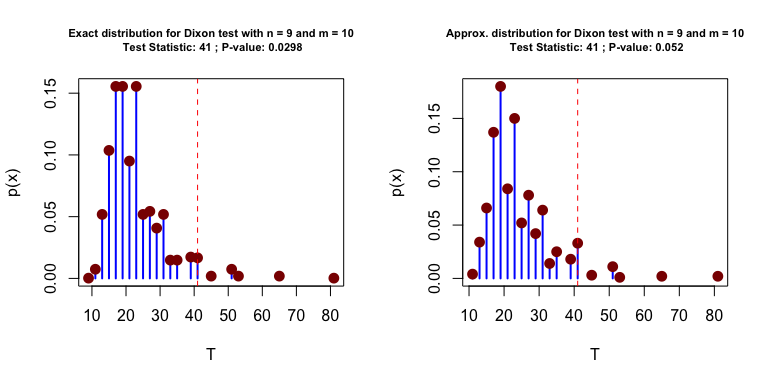
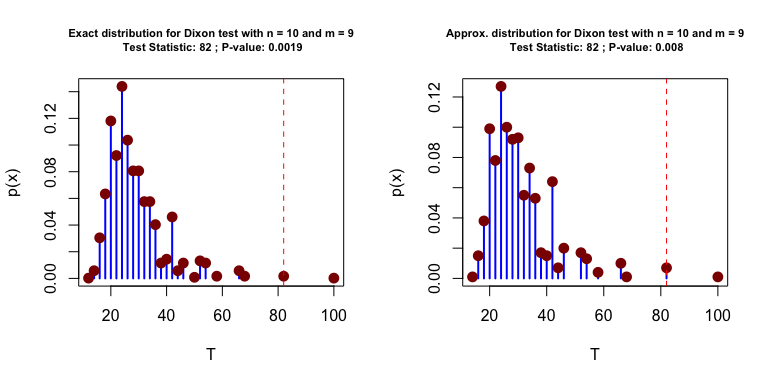
Update READEME

diff --git a/README.md b/README.md
@@ -8,7 +8,7 @@ Active](http://www.repostatus.org/badges/latest/active.svg)](http://www.repostat
 version](https://img.shields.io/badge/R%3E%3D-3.4.0-6666ff.svg)](https://cran.r-project.org/)
 [![CRAN](http://www.r-pkg.org/badges/version/TwoCircles)](https://cran.r-project.org/package=TwoCircles)
 [![packageversion](https://img.shields.io/badge/Package%20version-0.1.0-orange.svg?style=flat-square)](commits/develop)
-[![Last-changedate](https://img.shields.io/badge/last%20change-2020--06--13-yellowgreen.svg)](/commits/master)
+[![Last-changedate](https://img.shields.io/badge/last%20change-2020--10--05-yellowgreen.svg)](/commits/master)
 
 # `TwoCircles` Overview
 
@@ -30,26 +30,26 @@ Schmidt-Koenig (1958).
 data(pigeons)
 
 # Dixon test (exact pvalue)
-circular_test(pigeons$experimental, pigeons$control)
+circular_test(pigeons$control, pigeons$experimental)
 #> 
 #>       Dixon Two Sample Test
 #> 
-#> Data:  pigeons$experimental and pigeons$control
-#> Test Statistic: 41
-#> Exact P-value: 0.02982
+#> Data:  pigeons$control and pigeons$experimental
+#> Test Statistic: 82
+#> Exact P-value: 0.00185
 #> Bracketing Points and Pair of Signif. Levels:
-#> c1 = 35 (p1 = 0.0619)
-#> c2 = 39 (p2 = 0.0471)
+#> c1 = 44 (p1 = 0.0537)
+#> c2 = 46 (p2 = 0.0479)
 
 # Dixon test (approximated pvalue)
-circular_test(pigeons$experimental, pigeons$control, type = "mc")
+circular_test(pigeons$control, pigeons$experimental, type = "mc")
 #> 
 #>       Dixon Two Sample Test
 #> 
-#> Data:  pigeons$experimental and pigeons$control
-#> Test Statistic: 41
-#> Approx. P-value: 0.0437
-#> P-value stand. error: 0.0013297
+#> Data:  pigeons$control and pigeons$experimental
+#> Test Statistic: 82
+#> Approx. P-value: 0.0027
+#> P-value stand. error: 0.0001731
 #> based on 10000 Monte-Carlo replications
 ```
 
@@ -59,8 +59,8 @@ done as follows:
 
 ``` r
 par(mfrow = c(1,2))
-plot(circular_test(pigeons$experimental, pigeons$control), cex.main = 0.7)
-plot(circular_test(pigeons$experimental, pigeons$control, type = "mc", B = 10^3), cex.main = 0.7)
+plot(circular_test(pigeons$control, pigeons$experimental), cex.main = 0.7)
+plot(circular_test(pigeons$control, pigeons$experimental, type = "mc", B = 10^3), cex.main = 0.7)
 ```
 
 <img src="man/figures/README-unnamed-chunk-3-1.png" style="display: block; margin: auto;" />
